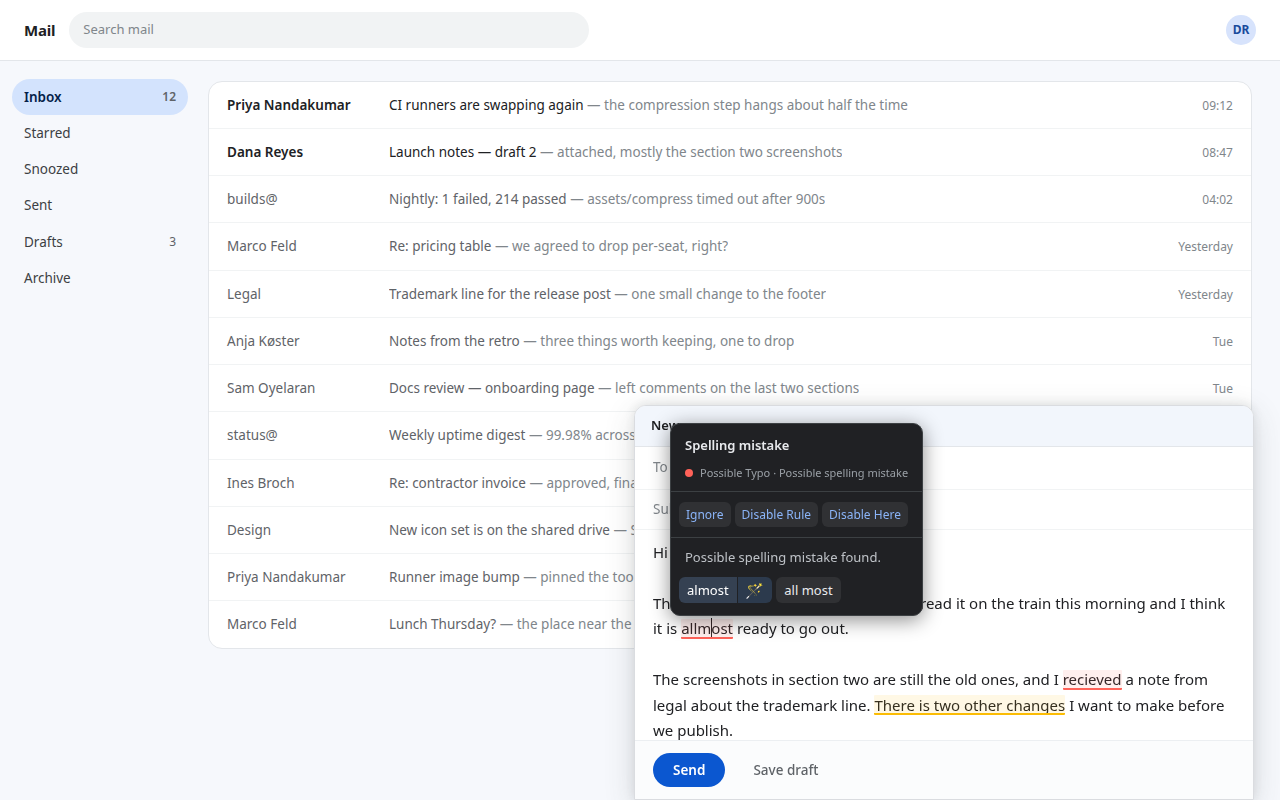
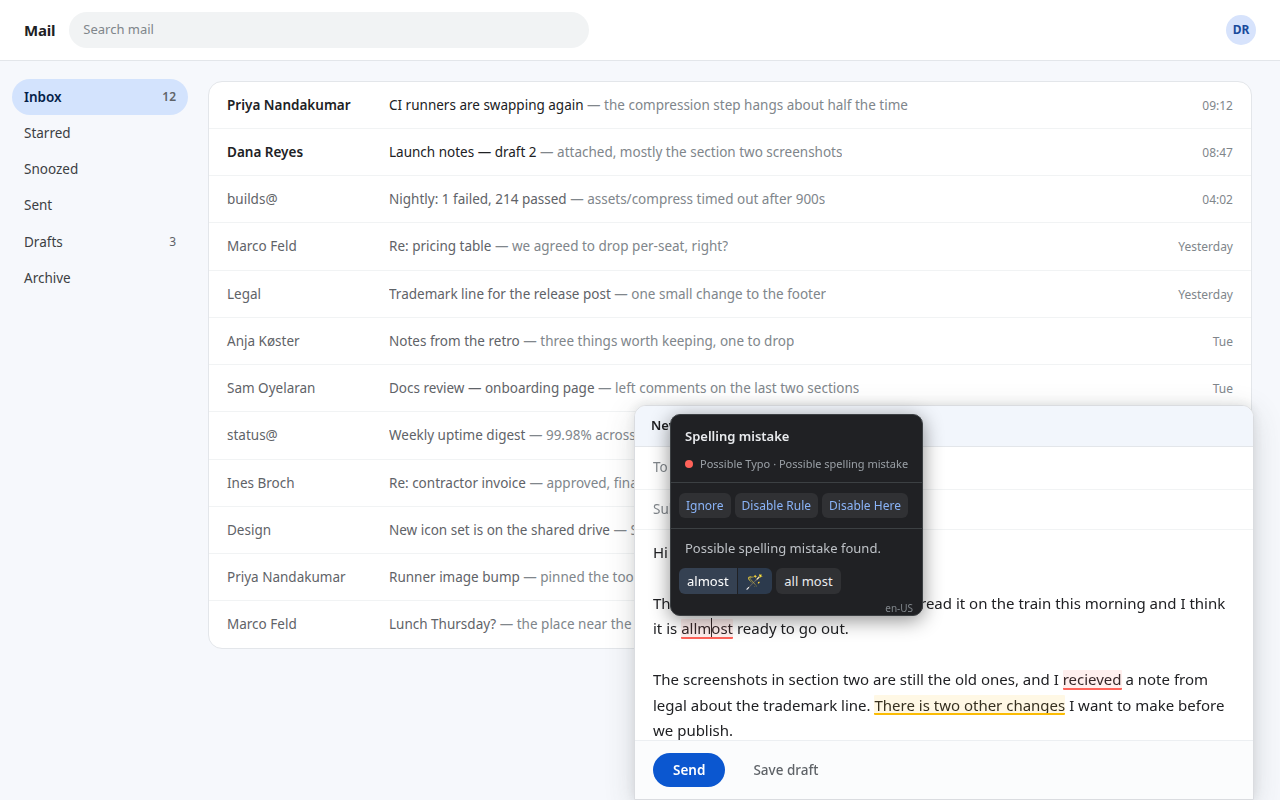
Show the suggestion popup on the project page
marketplace/shots.mjs now also crops the popup on its own at 2x, taken
from the same real run as the store screenshots, and the README leads
with it.

Changed region(s): [[0.5312, 0.5, 0.7188, 0.7812]]

diff --git a/README.md b/README.md
@@ -11,6 +11,13 @@ message, its suggested replacements, and the rule behind it.
 Underlines are colour-coded: red for spelling, amber for grammar, blue for
 style and register.
 
+<img src="marketplace/popup.png" alt="The suggestion popup on a misspelled word: the rule behind the match, Ignore / Disable Rule / Disable Here, the replacements, and the detected language in the corner" width="420">
+
+The wand next to the top suggestion pins that correction: the same fix is then
+applied on its own every time the rule flags that word. The greyed code in the
+corner is the language the text was checked as — with the language set to
+`auto`, that is what LanguageTool detected.
+
 ## Requirements
 
 - Chrome 119 or newer, or Firefox 128 or newer. contenteditable support needs

diff --git a/marketplace/README.md b/marketplace/README.md
@@ -10,6 +10,7 @@ Everything the three extension stores ask for, ready to paste and upload.
 | `edge-add-ons.md` | Edge: same package as Chrome, the fields that differ, certification notes. |
 | `firefox-amo.md` | Firefox: the Gecko build, the listing fields, and the reviewer notes AMO's code review needs. |
 | `screenshots/` | Six 1280×800 PNGs — the size Chrome and Edge require, and fine for AMO. |
+| `popup.png` | The popup alone, cropped tight and taken at 2x — not a store asset, it is the image the project README shows. |
 | `promo/` | Chrome small tile (440×280) and marquee (1400×560), Edge store logo (300×300). |
 | `demo.html`, `promo.html` | The staged pages the generator drives. Not part of the extension. |
 | `shots.mjs` | The generator. |
